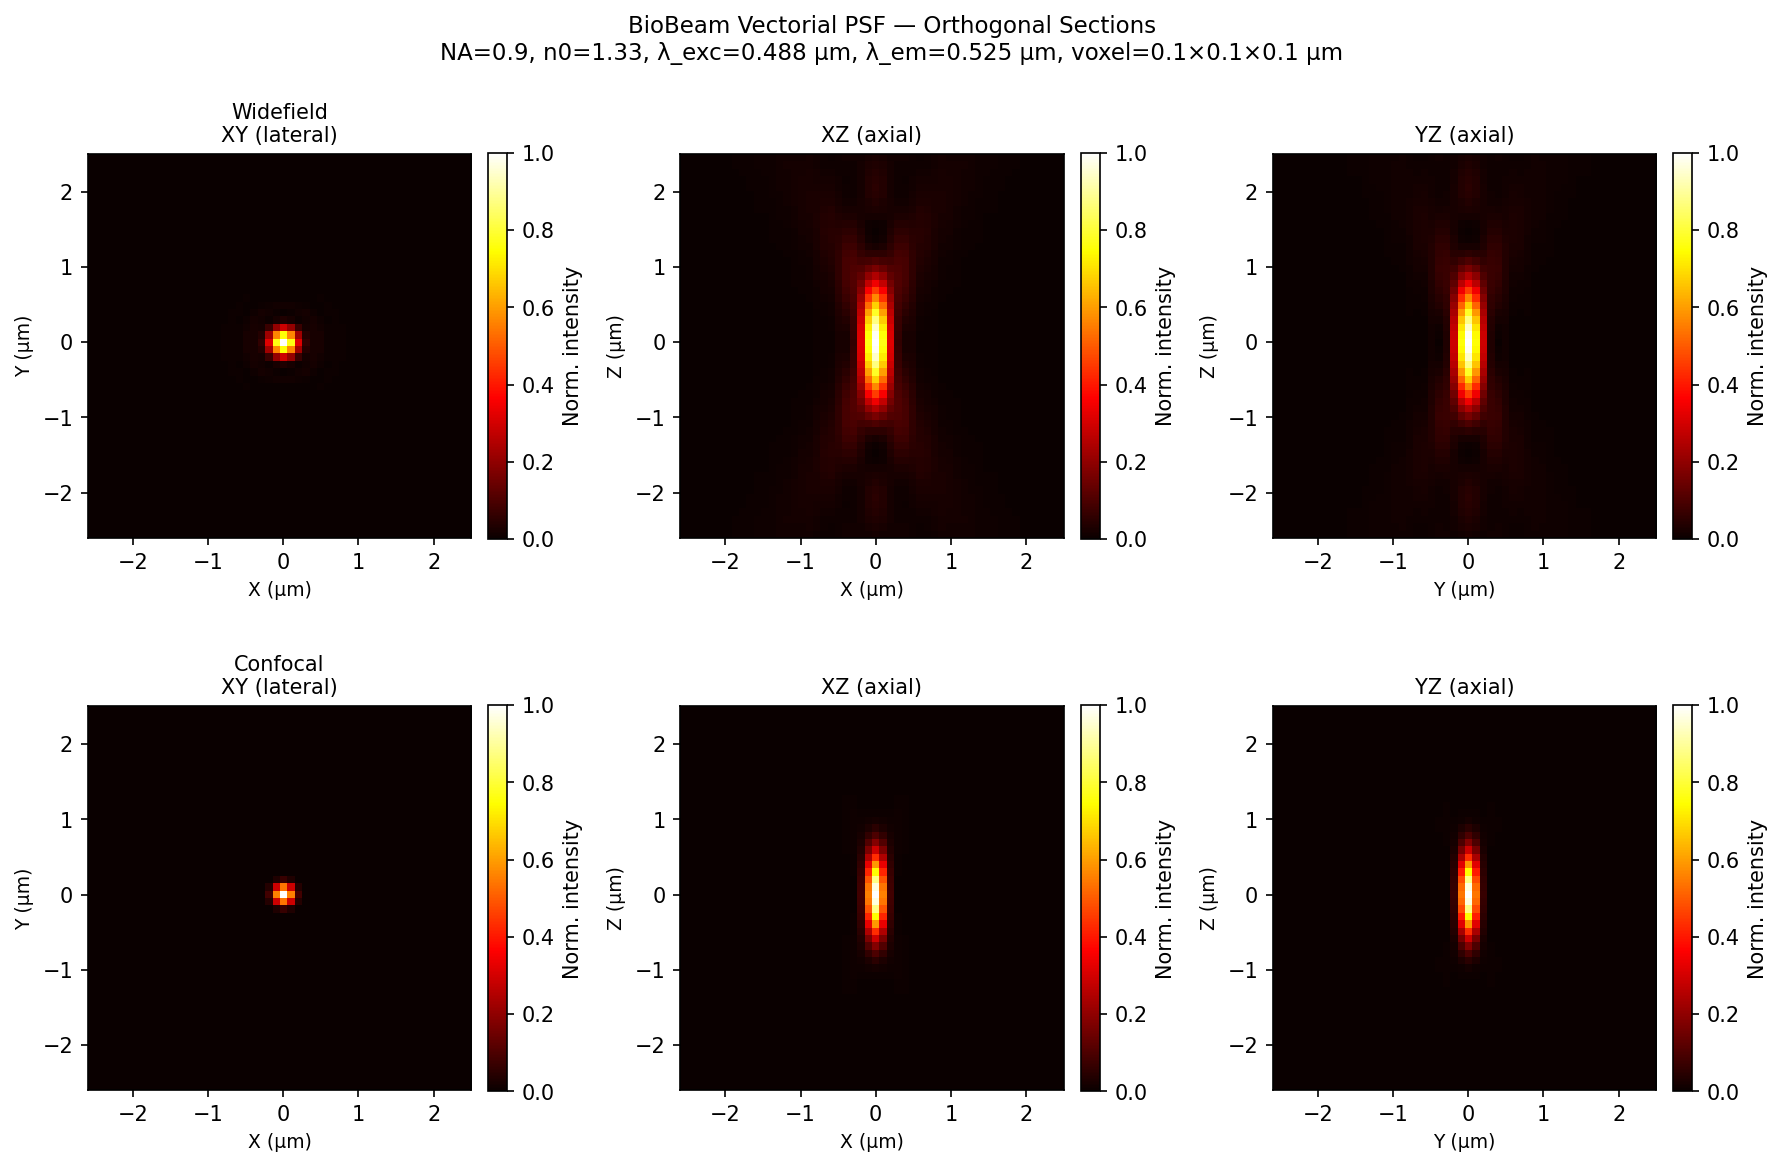
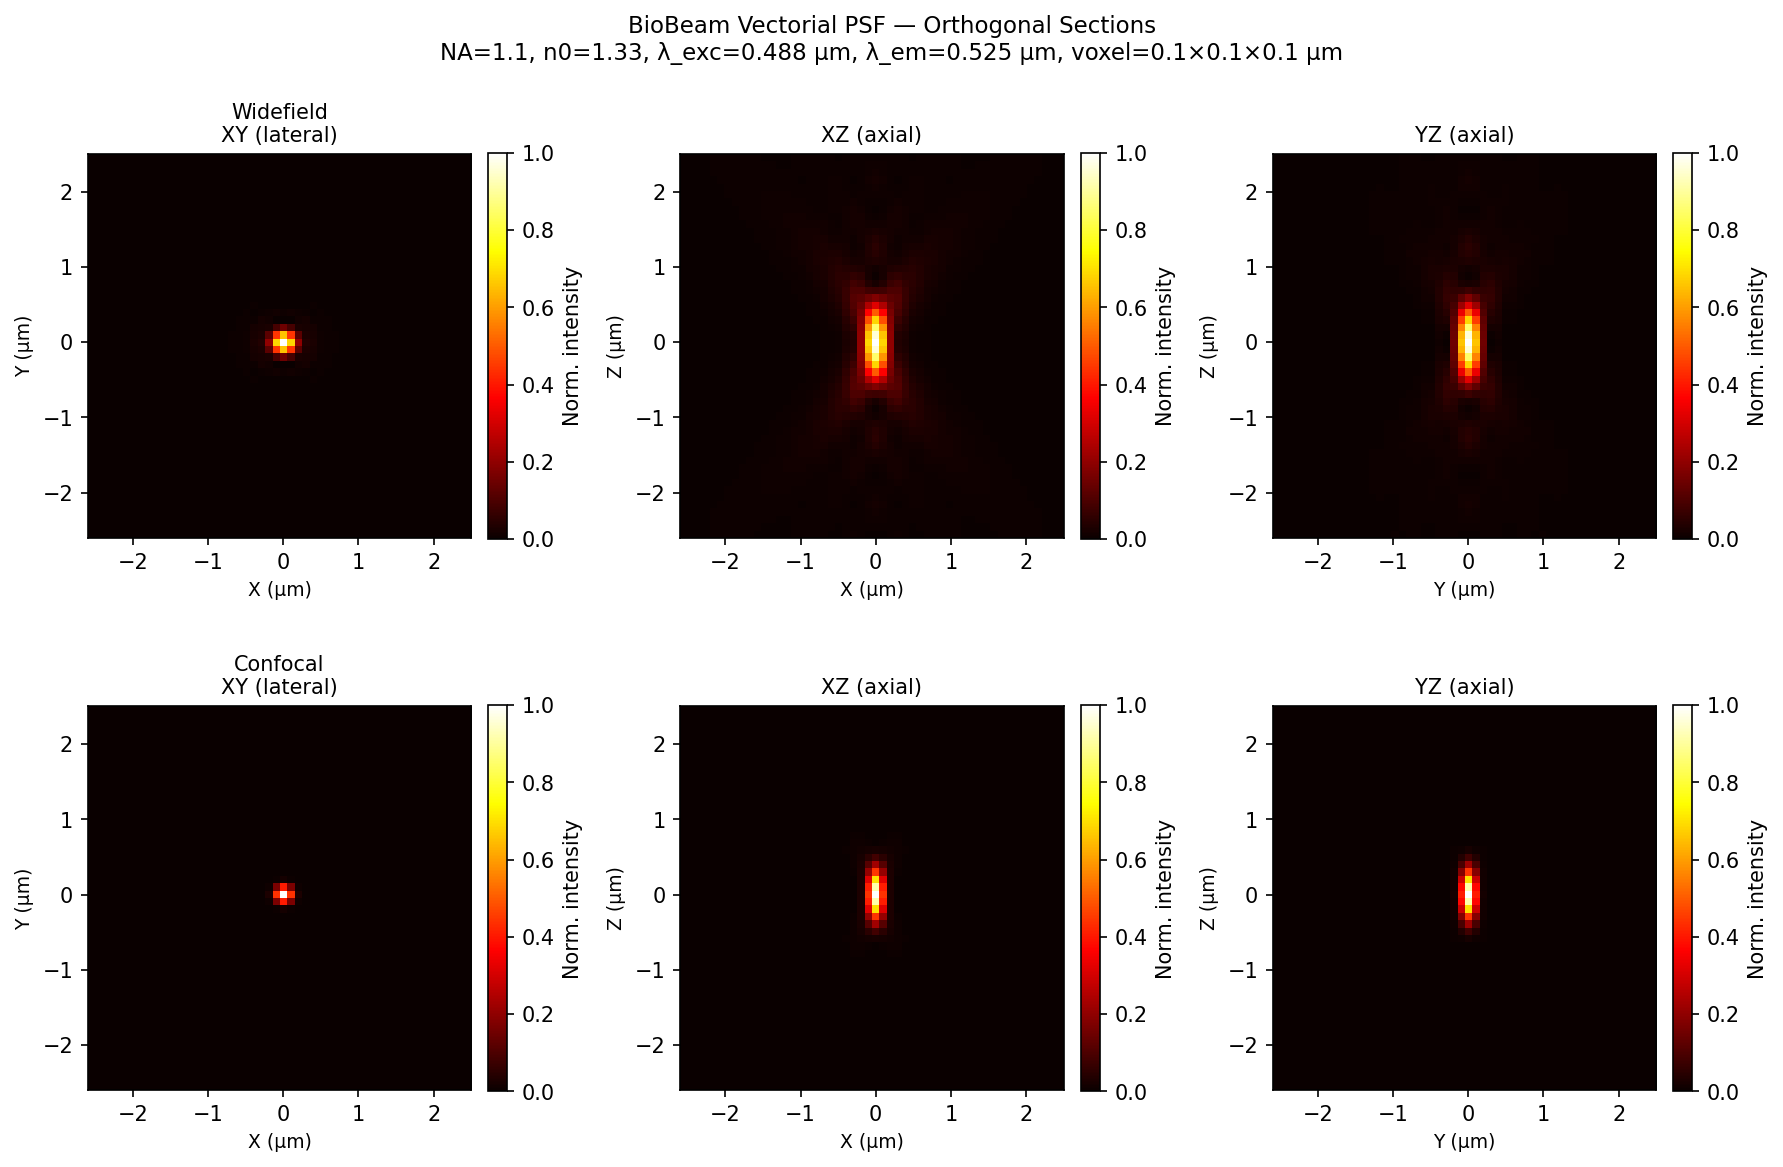
现在批量把 Widefield、Confocal 和 SPIM 的 PSF 全部都改成了 NA 等于 1.1 的情况下来获取。那下一步就是全局地做所有 PSF 的比较

diff --git a/Widefield-Confocal-PSF-BioBeam/widefield_confocal_psf_biobeam.py b/Widefield-Confocal-PSF-BioBeam/widefield_confocal_psf_biobeam.py
@@ -4,8 +4,8 @@
 Widefield and Confocal PSF via BioBeam Vectorial Debye-Wolf Integration
 
 Uses focus_field_beam() (Richards-Wolf 1959 + Foreman & Toeroek 2011) to compute:
-  - Widefield PSF  = PSF_detection(lam=0.525, NA=0.9)
-  - Confocal PSF   = PSF_excitation(lam=0.488, NA=0.9) x PSF_detection(lam=0.525, NA=0.9)
+  - Widefield PSF  = PSF_detection(lam=0.525, NA=1.10)
+  - Confocal PSF   = PSF_excitation(lam=0.488, NA=1.10) x PSF_detection(lam=0.525, NA=1.10)
 
 Hardware parameters consistent with the rest of the biobeam project.
 """
@@ -28,6 +28,7 @@ import numpy as np
 import matplotlib
 matplotlib.use('Agg')
 import matplotlib.pyplot as plt
+from tifffile import imwrite
 
 from biobeam.core.focus_field_beam import focus_field_beam
 
@@ -36,13 +37,14 @@ from biobeam.core.focus_field_beam import focus_field_beam
 # ---------------------------------------------------------------------------
 shape  = (52, 52, 52)        # (Nx, Ny, Nz) — even values required by focus_field_beam
 units  = (0.1, 0.1, 0.1)    # (dx, dy, dz) in microns => FOV ≈ 5.2 x 5.2 x 5.2 um
-NA     = 0.9                 # shared objective NA (excitation & detection)
+NA     = 1.10                # shared objective NA (excitation & detection)
 n0     = 1.33                # water immersion
 lam_exc = 0.488              # excitation wavelength (um)
 lam_em  = 0.525              # emission / detection wavelength (um)
 n_steps = 200                # Debye-Wolf integration steps
 
 out_dir = os.path.dirname(os.path.abspath(__file__))
+psfdata_dir = os.path.join(_repo_root, "psfdata")
 
 # ---------------------------------------------------------------------------
 # 1. Compute PSFs
@@ -72,6 +74,14 @@ psf_confocal = psf_confocal_raw / psf_confocal_raw.max()
 
 print(f"Widefield PSF  shape={psf_widefield.shape}  range=[{psf_widefield.min():.3f}, {psf_widefield.max():.3f}]")
 print(f"Confocal PSF   shape={psf_confocal.shape}   range=[{psf_confocal.min():.3f}, {psf_confocal.max():.3f}]")
+
+os.makedirs(psfdata_dir, exist_ok=True)
+widefield_out = os.path.join(psfdata_dir, "widefield_effective.tif")
+confocal_out = os.path.join(psfdata_dir, "confocal_psf.tif")
+imwrite(widefield_out, psf_widefield.astype(np.float32), imagej=True)
+imwrite(confocal_out, psf_confocal.astype(np.float32), imagej=True)
+print(f"Saved widefield PSF: {widefield_out}")
+print(f"Saved confocal PSF: {confocal_out}")
 
 # ---------------------------------------------------------------------------
 # 2. Helper: FWHM from a 1-D profile

diff --git a/Widefield-Confocal-PSF-BioBeam/compare_vectorial_scalar_psf.py b/Widefield-Confocal-PSF-BioBeam/compare_vectorial_scalar_psf.py
@@ -40,7 +40,7 @@ OUT_DIR = os.path.dirname(os.path.abspath(__file__))
 # ---------------------------------------------------------------------------
 # Hardware parameters
 # ---------------------------------------------------------------------------
-NA     = 0.9
+NA     = 1.10
 n0     = 1.33
 lam_exc = 0.488   # μm
 lam_em  = 0.525   # μm

diff --git a/cylindrical_lightsheet_psf_visualization_plotly可视化SPIM激发检测光.py b/cylindrical_lightsheet_psf_visualization_plotly可视化SPIM激发检测光.py
@@ -50,7 +50,7 @@ n0 = 1.33                # 介质折射率
 
 # 检测参数
 lam_detection = 0.525    # 检测波长（微米）
-NA_detection = 0.9       # 检测数值孔径
+NA_detection = 1.10      # 检测数值孔径
 
 print("参数设置完成")
 print(f"形状: {shape}")